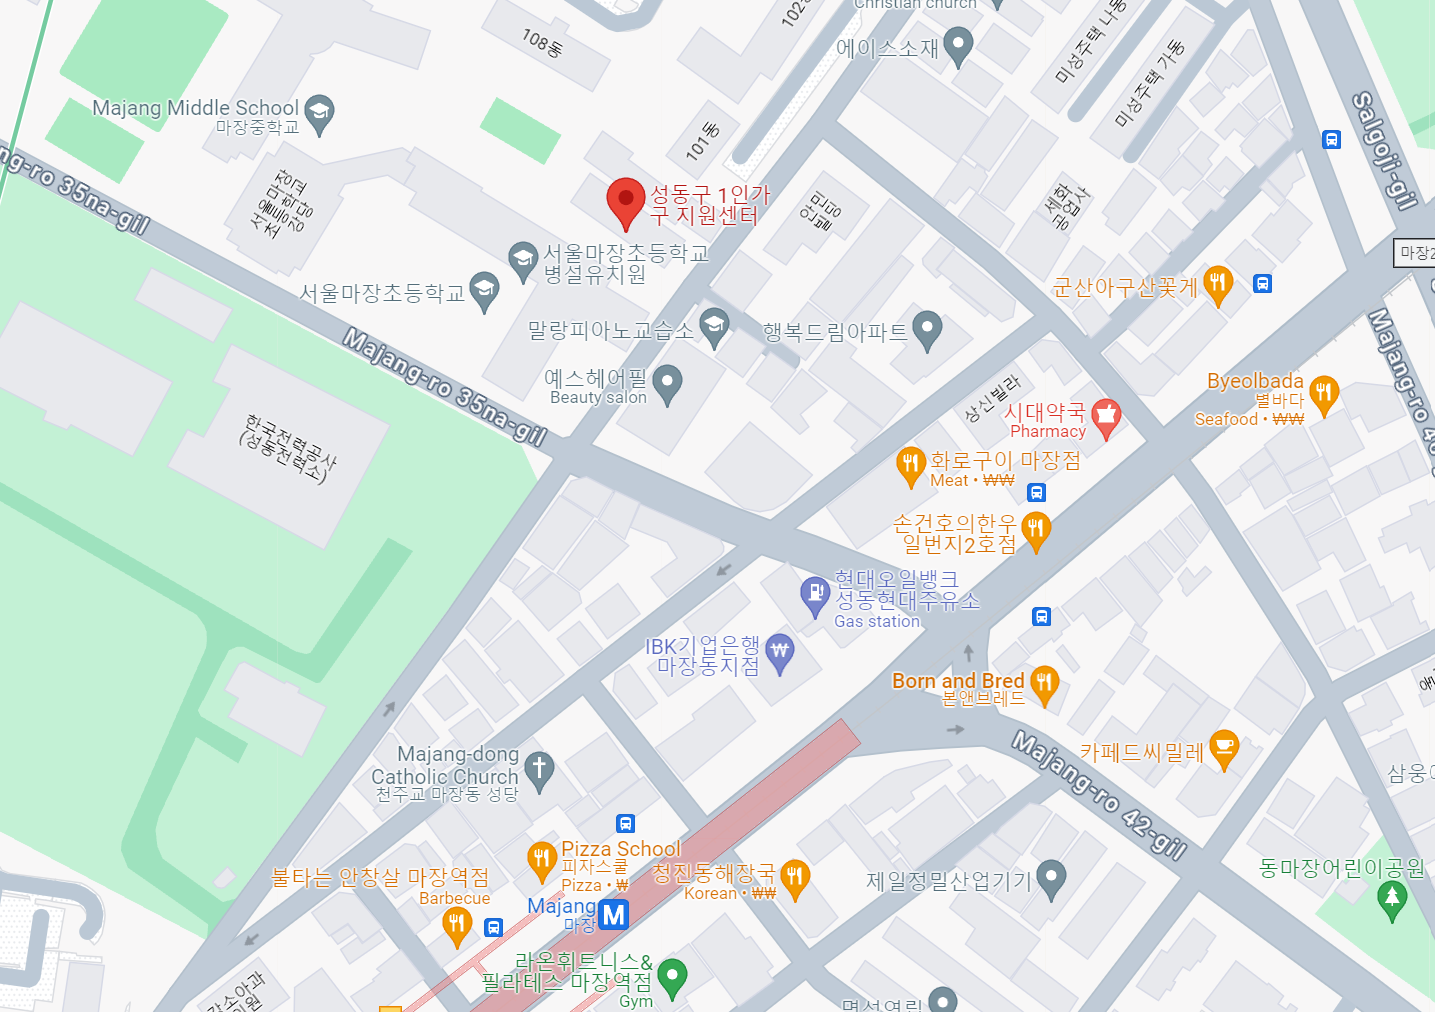
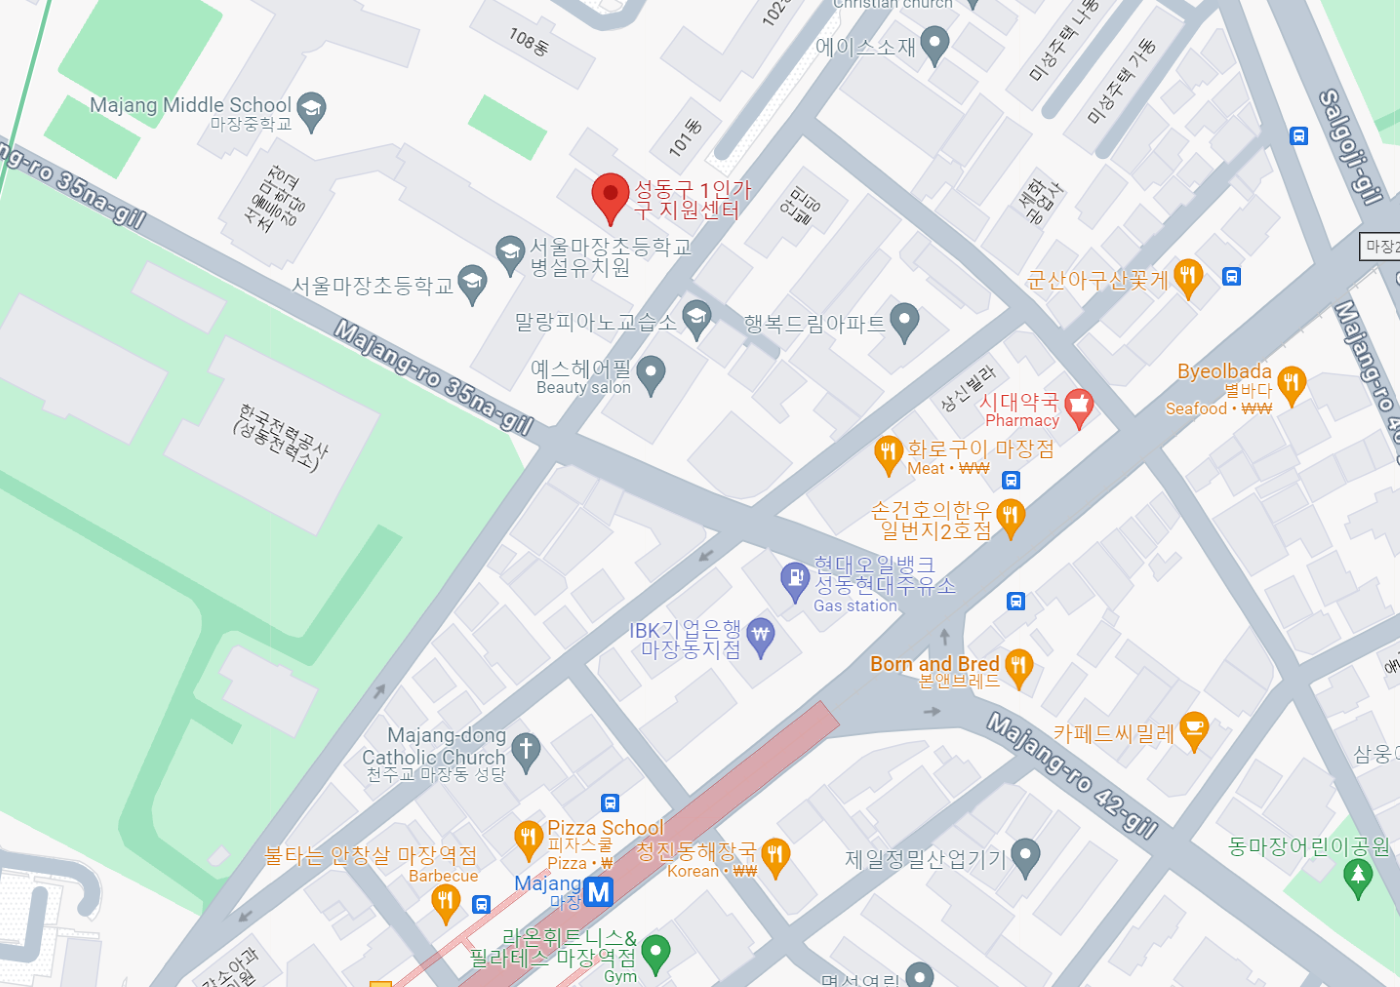
main_page수정

diff --git a/lib/screens/main_page.dart b/lib/screens/main_page.dart
@@ -222,7 +222,7 @@ class _MainPageState extends State<MainPage> {
                 ),
               ),
               SizedBox(
-                height: 300,
+                height: 200,
                 // child: MapSample(),
                 child: Image.asset(
                   'assets/지원센터.png',
@@ -231,6 +231,8 @@ class _MainPageState extends State<MainPage> {
                   height: 50,
                 ),
               ),
+              Text('[ 서울 성동구 마장로39길 31 행복신협빌딩 3층,'),
+              Text('5호선 마장역 2번 출구에서 296m ]'),
               SizedBox(height: 20),
               Align(
                 alignment: Alignment.center,
@@ -322,6 +324,85 @@ class _MainPageState extends State<MainPage> {
                   ),
                   Spacer(),
                 ],
+              ),
+              SizedBox(height: 10),
+              Row(
+                children: [
+                  Spacer(),
+                  ElevatedButton(
+                    onPressed: () {
+                      _openFacebookPage('https://www.facebook.com/sd1in/');
+                    },
+                    style: ElevatedButton.styleFrom(
+                      primary: Colors.white,
+                      onPrimary: Colors.black,
+                    ),
+                    child: Column(
+                      children: [
+                        SizedBox(height: 5),
+                        Container(
+                            width: 80,
+                            height: 80,
+                            decoration: BoxDecoration(
+                              borderRadius: BorderRadius.circular(8.0),
+                            ),
+                            child: Icon(Icons.facebook)),
+                        Text('페이스북'),
+                        SizedBox(height: 10),
+                      ],
+                    ),
+                  ),
+                  Spacer(),
+                  ElevatedButton(
+                    onPressed: () {
+                      _openInstagramPage(
+                          'https://www.instagram.com/sd1in_net/');
+                    },
+                    style: ElevatedButton.styleFrom(
+                      primary: Colors.white,
+                      onPrimary: Colors.black,
+                    ),
+                    child: Column(
+                      children: [
+                        SizedBox(height: 5),
+                        Container(
+                            width: 80,
+                            height: 80,
+                            decoration: BoxDecoration(
+                              borderRadius: BorderRadius.circular(8.0),
+                            ),
+                            child: Icon(Icons.snapchat)),
+                        Text('인스타그램'),
+                        SizedBox(height: 10),
+                      ],
+                    ),
+                  ),
+                  Spacer(),
+                  ElevatedButton(
+                    onPressed: () {
+                      _openBlogPage('https://blog.naver.com/sd1in');
+                    },
+                    style: ElevatedButton.styleFrom(
+                      primary: Colors.white,
+                      onPrimary: Colors.black,
+                    ),
+                    child: Column(
+                      children: [
+                        SizedBox(height: 5),
+                        Container(
+                            width: 80,
+                            height: 80,
+                            decoration: BoxDecoration(
+                              borderRadius: BorderRadius.circular(8.0),
+                            ),
+                            child: Icon(Icons.home)),
+                        Text('블로그'),
+                        SizedBox(height: 10),
+                      ],
+                    ),
+                  ),
+                  Spacer(),
+                ],
               )
             ],
           ),
@@ -376,6 +457,30 @@ void _openKakaoTalkChannel(String channelID) async {
     await launch(_channelLink.toString());
   } else {
     throw 'Could not launch KakaoTalk';
+  }
+}
+
+void _openFacebookPage(String facebookUrl) async {
+  if (await canLaunch(facebookUrl)) {
+    await launch(facebookUrl);
+  } else {
+    throw 'Could not launch $facebookUrl';
+  }
+}
+
+void _openInstagramPage(String instagramUrl) async {
+  if (await canLaunch(instagramUrl)) {
+    await launch(instagramUrl);
+  } else {
+    throw 'Could not launch $instagramUrl';
+  }
+}
+
+void _openBlogPage(String BlogUrl) async {
+  if (await canLaunch(BlogUrl)) {
+    await launch(BlogUrl);
+  } else {
+    throw 'Could not launch $BlogUrl';
   }
 }
 

diff --git a/lib/mypage/user_profile.dart b/lib/mypage/user_profile.dart
@@ -48,36 +48,34 @@ class _UserProfilePageState extends State<UserProfilePage> {
               children: [
                 Align(
                   alignment: Alignment.topLeft,
-                  child: Padding(
-                    padding: EdgeInsets.all(10),
-                    child: Stack(
-                      children: [
-                        CircleAvatar(
-                          radius: 50.0,
-                          backgroundImage:
-                              AssetImage('assets/user_profile.jpg'),
-                        ),
-                        Positioned(
-                          bottom: -10,
-                          right: -10,
-                          child: IconButton(
-                            onPressed: () {
-                              Navigator.push(
-                                context,
-                                MaterialPageRoute(
-                                  builder: (context) => CameraScreen(),
-                                ),
-                              );
-                            },
-                            icon: Icon(
-                              Icons.camera_alt,
-                              size: 30,
-                              color: Color.fromARGB(255, 16, 16, 16),
-                            ),
+                  // child: Padding(
+                  //   // padding: EdgeInsets.all(10),
+                  child: Stack(
+                    children: [
+                      CircleAvatar(
+                        radius: 50.0,
+                        backgroundImage: AssetImage('assets/user_profile.jpg'),
+                      ),
+                      Positioned(
+                        bottom: -10,
+                        right: -10,
+                        child: IconButton(
+                          onPressed: () {
+                            Navigator.push(
+                              context,
+                              MaterialPageRoute(
+                                builder: (context) => CameraScreen(),
+                              ),
+                            );
+                          },
+                          icon: Icon(
+                            Icons.camera_alt,
+                            size: 30,
+                            color: Color.fromARGB(255, 16, 16, 16),
                           ),
                         ),
-                      ],
-                    ),
+                      ),
+                    ],
                   ),
                 ),
                 Align(

diff --git a/lib/mypage/my_page.dart b/lib/mypage/my_page.dart
@@ -210,7 +210,7 @@ class _MyPageScreenState extends State<MyPageScreen> {
                     ),
                   ),
                   Padding(
-                    padding: const EdgeInsets.all(8.0),
+                    padding: const EdgeInsets.fromLTRB(5, 5, 5, 10),
                     child: Container(
                       decoration: BoxDecoration(
                         border: Border.all(color: Colors.black38, width: 1.0),
@@ -227,7 +227,6 @@ class _MyPageScreenState extends State<MyPageScreen> {
                               color: Color.fromARGB(255, 16, 16, 16),
                             ),
                             SizedBox(width: 10),
-
                             Text(
                               '포인트',
                               style: TextStyle(
@@ -243,7 +242,7 @@ class _MyPageScreenState extends State<MyPageScreen> {
                             Text(
                               '1000 points', // You can replace this with the actual value
                               style: TextStyle(
-                                fontSize: 16, // Adjust the font size as needed
+                                fontSize: 16,
                               ),
                             ),
                           ],
